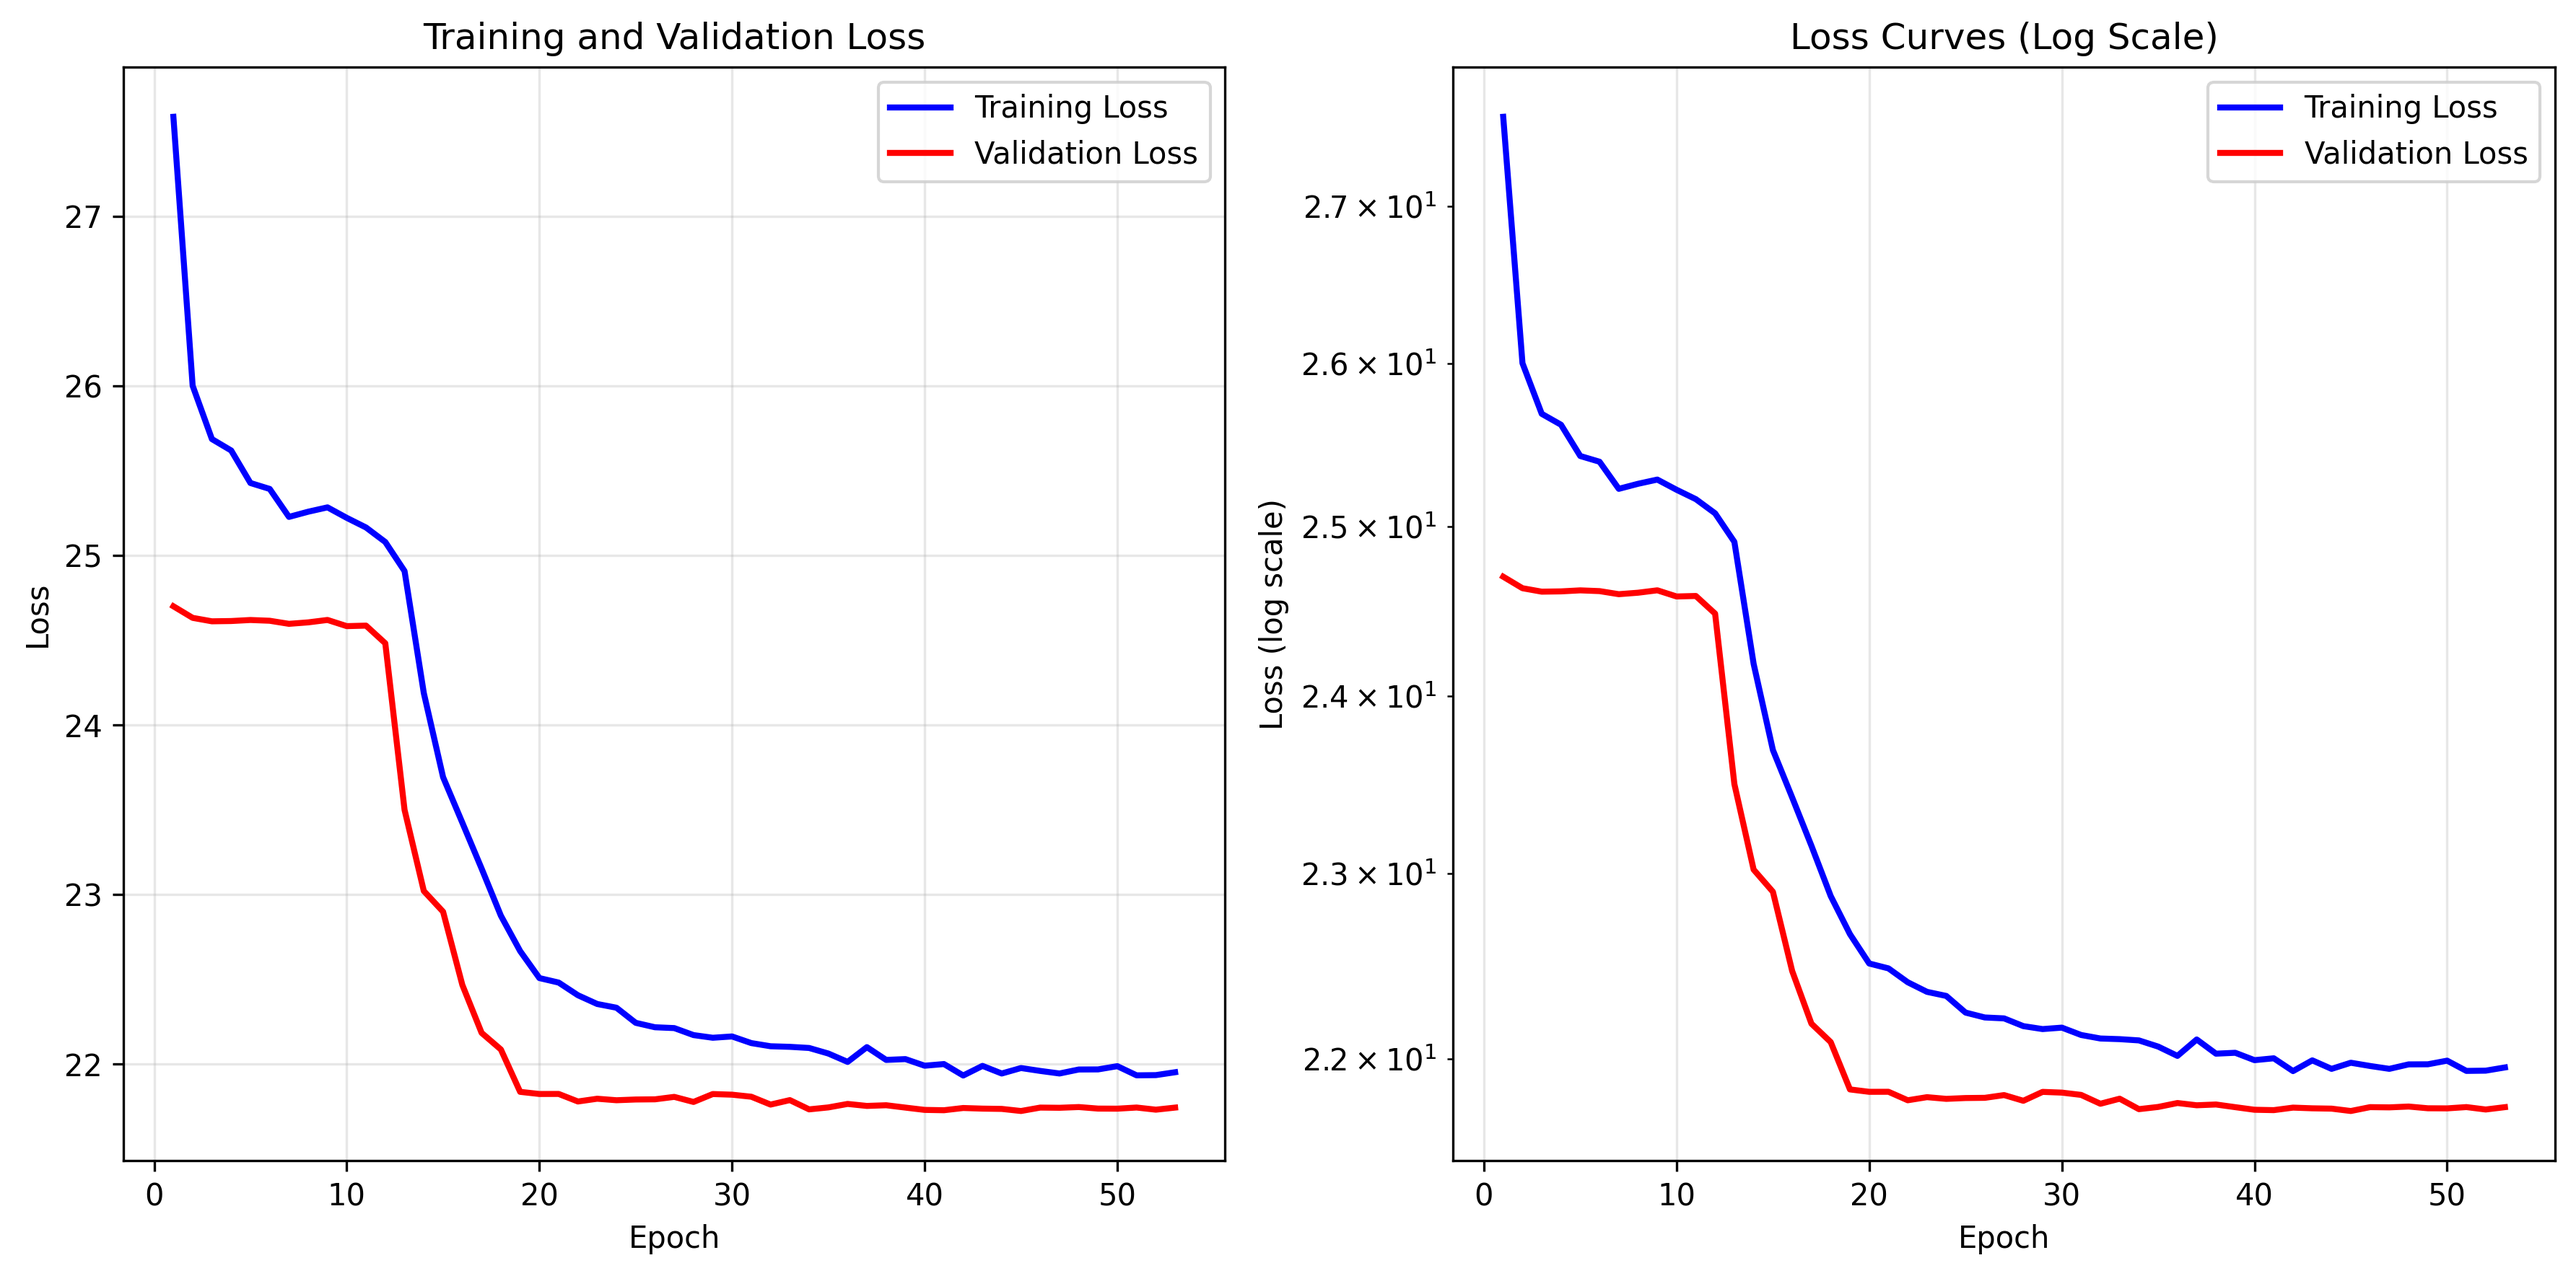
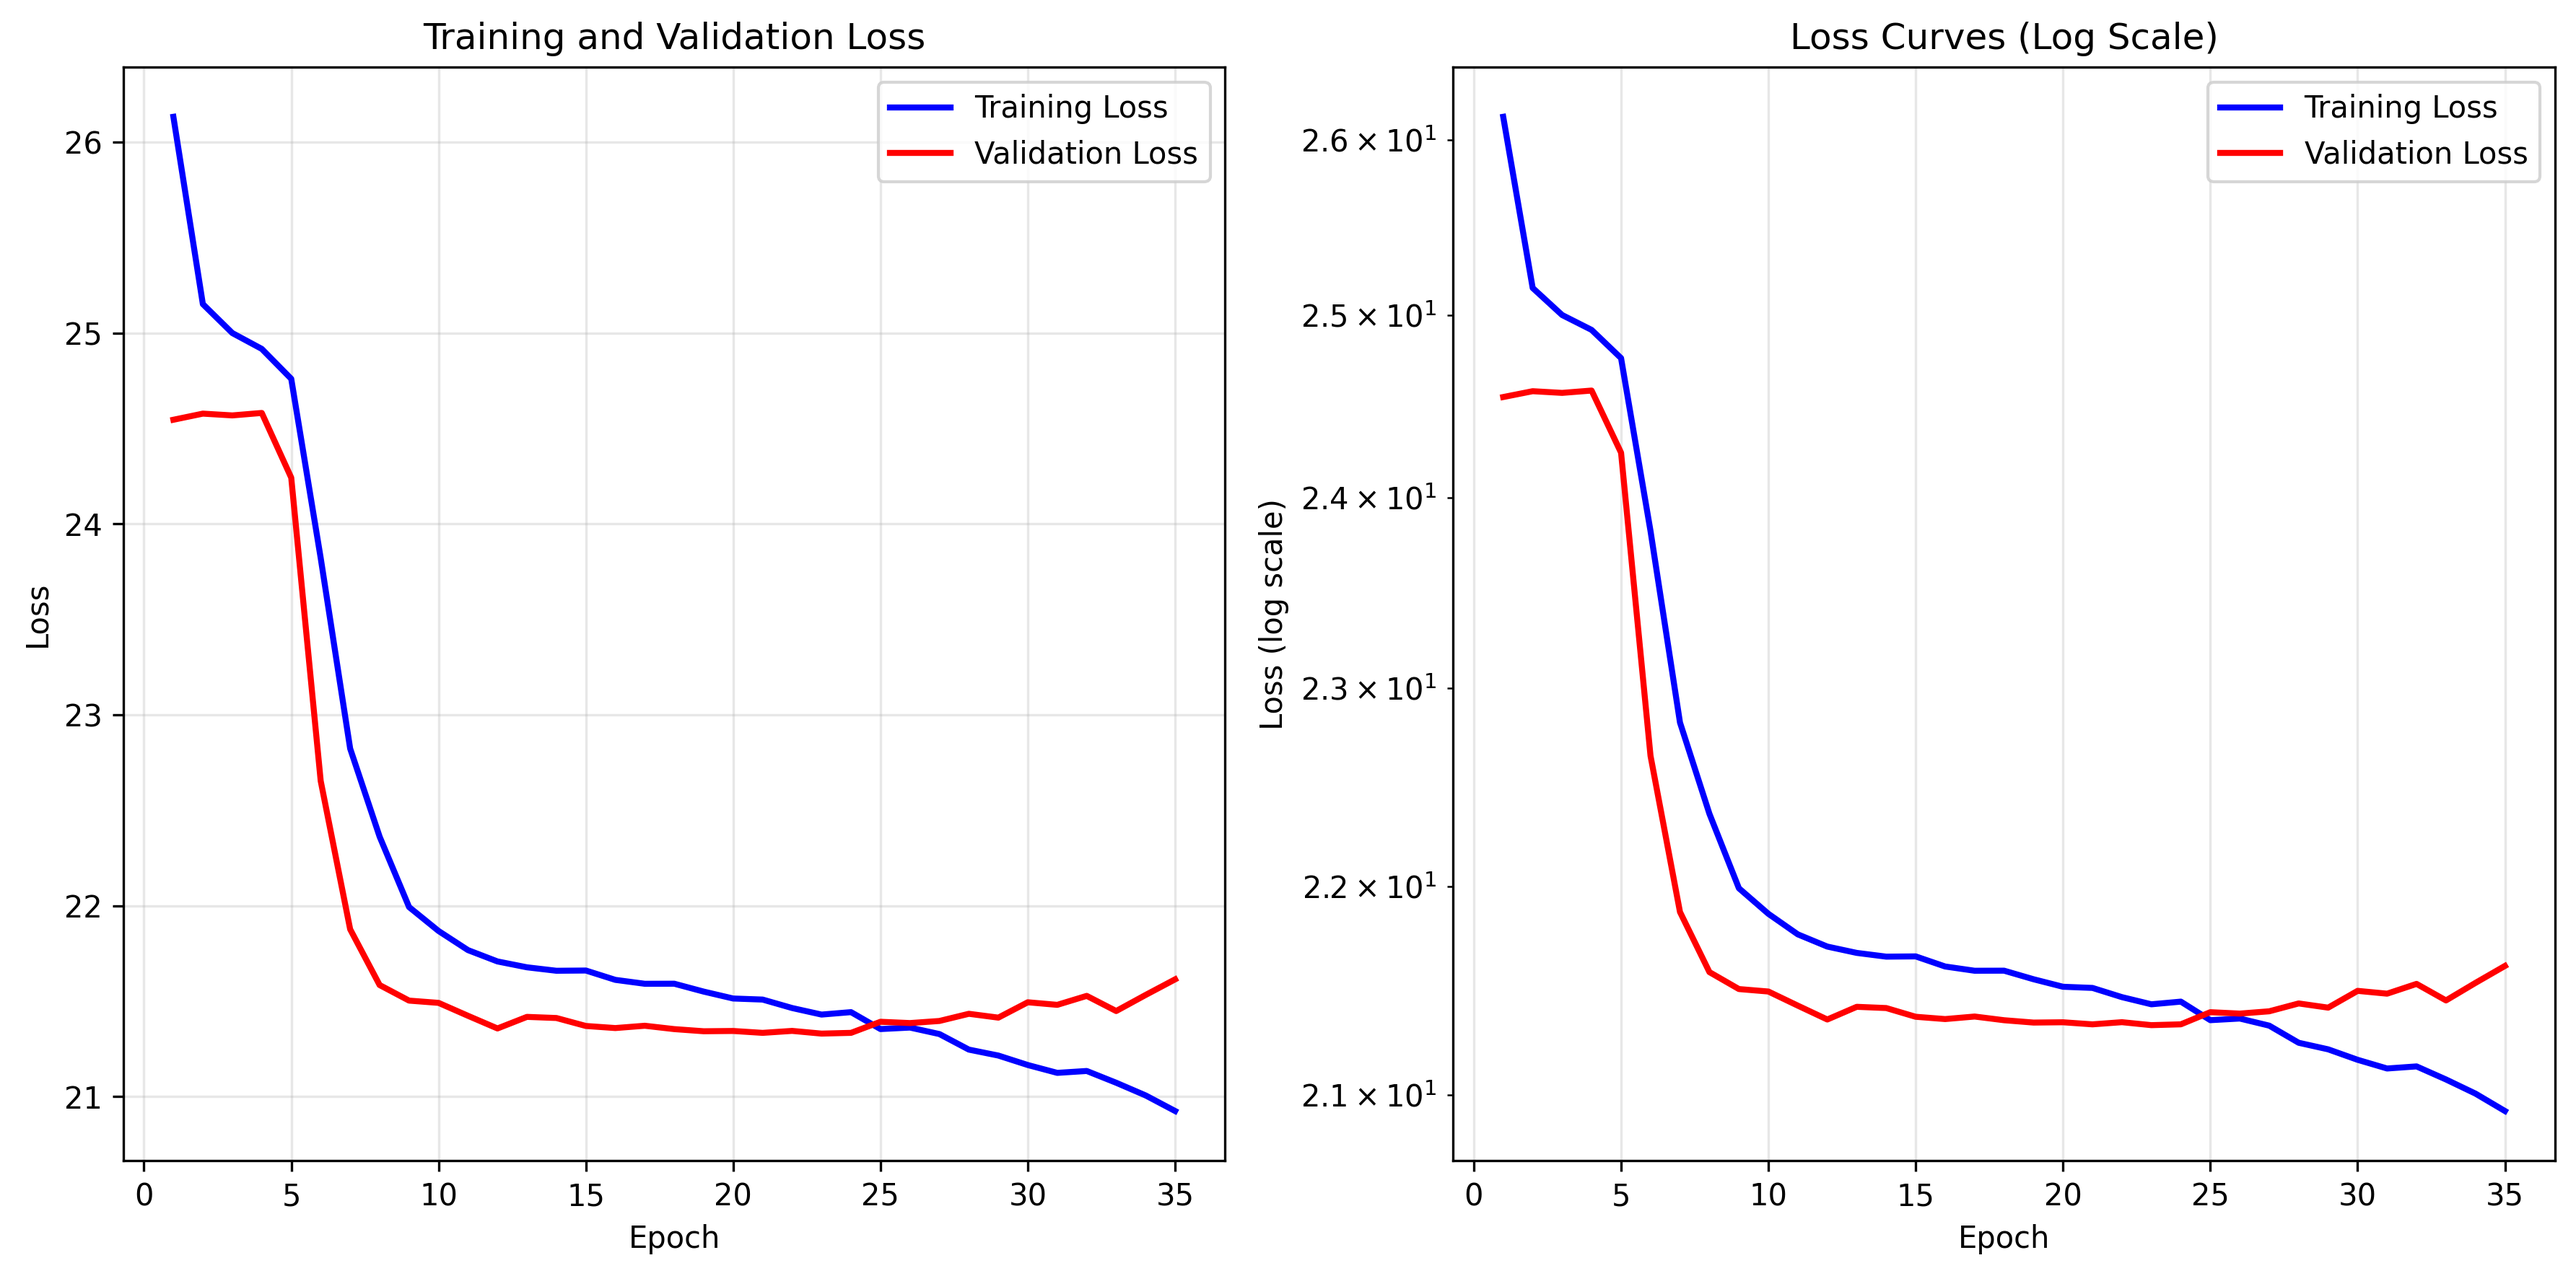
add all the possibe combinations

diff --git a/euromillions-transformer/train.py b/euromillions-transformer/train.py
@@ -204,13 +204,13 @@ class EarlyStopping:
 # --- Training ---
 
 def train_model(train_loader, val_loader, test_loader, model, epochs, lr, weight_decay, save_path='best_model.pth', device='cpu'):
-    # Label smoothing to discourage exact memorization and improve generalization
-    criterion = nn.CrossEntropyLoss(label_smoothing=0.05)
+    # Reduced label smoothing and relaxed early stopping for better convergence.
+    criterion = nn.CrossEntropyLoss(label_smoothing=0.01)
     optimizer = optim.AdamW(model.parameters(), lr=lr, weight_decay=weight_decay)
     # Cosine annealing for smoother LR schedule
     scheduler = optim.lr_scheduler.CosineAnnealingLR(optimizer, T_max=max(10, epochs - 5))
-    # Slightly stricter early stopping to avoid overfitting
-    early_stopping = EarlyStopping(patience=8, min_delta=0.002, save_path=save_path)
+    # Relaxed early stopping to allow for more gradual improvement
+    early_stopping = EarlyStopping(patience=12, min_delta=0.001, save_path=save_path)
 
     model.to(device)
 
@@ -401,8 +401,7 @@ def parse_args():
     parser.add_argument("--num_encoder_layers", type=int, default=4)
     parser.add_argument("--num_decoder_layers", type=int, default=4)
     parser.add_argument("--dim_feedforward", type=int, default=512)
-    parser.add_argument("--dropout", type=float, default=0.3)
-    parser.add_argument("--feature_drop", type=float, default=0.1, help="Probability to randomly drop (zero) some non-temporal features per batch for regularization")
+    parser.add_argument("--dropout", type=float, default=0.1)
     return parser.parse_args()
 
 
@@ -413,17 +412,12 @@ if __name__ == "__main__":
     # Load data
     (X_train, y_train), (X_val, y_val), (X_test, y_test), scaler, feature_cols = load_and_prepare_data_csv(args.data_path)
 
-    # Lightweight feature dropout at dataset level: zero-out a random subset of non-temporal columns per epoch via DataLoader worker_init_fn
-    rng = np.random.default_rng(42)
-    def worker_init_fn(_):
-        pass  # deterministic for now; could add epoch-dependent masking
-
     train_dataset = TensorDataset(X_train, y_train)
     val_dataset = TensorDataset(X_val, y_val)
     test_dataset = TensorDataset(X_test, y_test)
 
     # Maintain chronological order (no shuffle); drop_last for train for more stable batch stats
-    train_loader = DataLoader(train_dataset, batch_size=args.batch_size, shuffle=False, drop_last=True, worker_init_fn=worker_init_fn)
+    train_loader = DataLoader(train_dataset, batch_size=args.batch_size, shuffle=False, drop_last=True)
     val_loader = DataLoader(val_dataset, batch_size=args.batch_size, shuffle=False, drop_last=False)
     test_loader = DataLoader(test_dataset, batch_size=args.batch_size, shuffle=False, drop_last=False)
 

diff --git a/euromillions-transformer/generate-all-possible-combinations.py b/euromillions-transformer/generate-all-possible-combinations.py
@@ -1,0 +1,65 @@
+import itertools
+import pandas as pd
+import numpy as np
+import time
+import os
+
+# Set output path to save locally (modify as needed)
+output_path = './euromillions_combinations.csv'
+
+# Function to generate combinations in batches and save to CSV
+def generate_euromillions_combinations(batch_size=100000):
+    """
+    Generate all EuroMillions combinations (N1 to N5, E1, E2) and save to CSV.
+    N1 to N5: Unique, sorted integers from 1 to 50.
+    E1, E2: Integers from 1 to 12, E1 <= E2.
+    Uses batch processing to manage memory.
+    """
+    start_time = time.time()
+    
+    # Define main numbers (1 to 50, choose 5) and star numbers (1 to 12, choose 2)
+    main_numbers = range(1, 51)
+    star_numbers = range(1, 13)
+    
+    # Generate all star combinations (E1 <= E2)
+    star_combos = list(itertools.combinations(star_numbers, 2)) + [(i, i) for i in star_numbers]
+    
+    # Initialize CSV file with header
+    columns = ['N1', 'N2', 'N3', 'N4', 'N5', 'E1', 'E2', 'Sum']
+    if not os.path.exists(output_path):
+        pd.DataFrame(columns=columns).to_csv(output_path, index=False)
+    
+    # Generate main number combinations in batches
+    main_combos = itertools.combinations(main_numbers, 5)
+    batch = []
+    batch_count = 0
+    
+    for main in main_combos:
+        main_sum = sum(main)
+        for star in star_combos:
+            total_sum = main_sum + sum(star)
+            batch.append(main + star + (total_sum,))
+        
+        # Save batch to CSV when it reaches batch_size
+        if len(batch) >= batch_size:
+            df_batch = pd.DataFrame(batch, columns=columns)
+            df_batch.to_csv(output_path, mode='a', header=False, index=False)
+            batch = []  # Clear batch
+            batch_count += 1
+            print(f"Saved batch {batch_count} ({batch_count * batch_size} combinations)")
+    
+    # Save any remaining combinations
+    if batch:
+        df_batch = pd.DataFrame(batch, columns=columns)
+        df_batch.to_csv(output_path, mode='a', header=False, index=False)
+        print(f"Saved final batch ({len(batch)} combinations)")
+    
+    print(f"Total time: {time.time() - start_time:.2f} seconds")
+
+# Run the generation
+generate_euromillions_combinations(batch_size=1000000)
+
+# Verify the output (optional, read a sample)
+sample_df = pd.read_csv(output_path, nrows=10)
+print("Sample of generated combinations:")
+print(sample_df)
